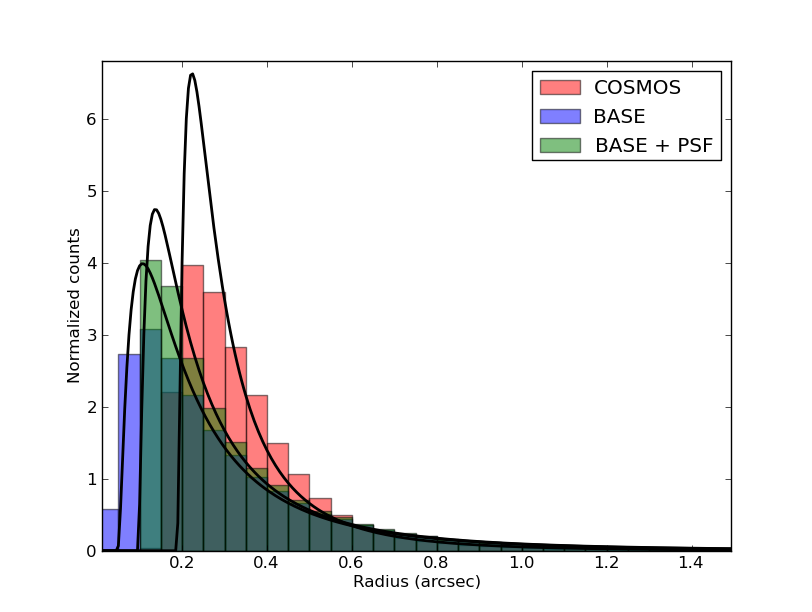
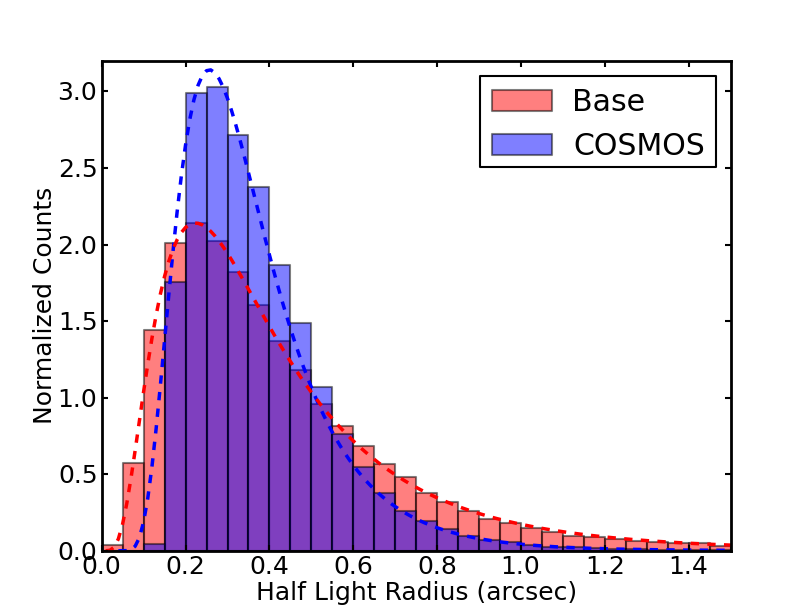
Addressing some of the outstanding questions in the text

diff --git a/validation.tex b/validation.tex
@@ -314,8 +314,6 @@ Stellar  populations included within the current implementation of the model are
 \item Cepheids
 \end{itemize}
 
-{\bf XXX OBA stars for future work}
-
 Approximately 10\% of the stellar sources are variable at a level
 detectable by LSST.  Variability is modeled for sources within the
 base catalogs by defining a light curve, its amplitude, a period, and
@@ -382,7 +380,7 @@ and software shall be accessible by the LSST project and science
 collaborations}\\
 
 CatSim is released as open source software using the GPLv3 license
-\citep{XXX}. The terms of this license are such that the software is
+\citep{gpl}. The terms of this license are such that the software is
 made available for copying, modification, and redistribution
 (including derivative works). Adopting GPLv3 ensures that works
 derived from the LSST software will also be released under the same
@@ -439,7 +437,7 @@ between CatSim and the photon simulator (PhoSim) are documented by the
 OpSim and PhoSim teams respectively.  These interfaces are described in:
 \begin{itemize}
 \item OpSim to CatSim -- ({\tt https://lsstcorp.org/sites/default/files/SSTARUserGuide.pdf}; accessed 07/29/2013)
-\item CatSim to PhoSim --{\bf XXX where is this}
+\item CatSim to PhoSim -- (\citet(phosim) and {\tt https://dev.lsstcorp.org/trac/wiki/IS\_instance\_catalog}; accessed 07/29/2013)
 \end{itemize}
 
 \subsection{Framework Requirement 4} 
@@ -469,10 +467,9 @@ astrophysical sources. Determinism for this process is ensured by
 defining the initial time, $T_o$, for the light curve model (i.e.\
 essentially specifying the phase of the light curve for a particular
 time). A value for $T_o$ is assigned to all variable sources within
-the catalog.  Stochastic variability, that uses a random number
-generator (e.g.\ the damped random walk of an AGN light curve), have a
-common seed for each source that is tied to its object id.
-{\bf XXX is this true}
+the catalog.  Any variability that uses a random number
+generator (e.g.\ the damped random walk of an AGN light curve) should have a
+seed for each source so that all observations of the lightcurve are self consistent.
 
 Special consideration must be paid to keeping ids in the output
 catalogs unique.  Since each object database is independent (i.e.\
@@ -836,10 +833,14 @@ $R=\frac{r_{gal}^2}{r_{PSF}^2}$ is the area of the galaxy relative to
 the point spread function.  We adopt values from \citet{chang} of
 (a,b,c) = (1.58,5.03,0.39), and assume a fiducial PSF size of 0.7
 arcsec. We use an estimate for the limiting magnitude of the co-added
-images of 26.7.  {\bf XXX why?} This takes into account the fact that
-the measurements are on extended sources as well as the fact that the
-SRD value of 27.5 in r is for dark sky observations at zenith.  The
-galaxy sample is the ``Gold Sample'' of galaxies with $i < 25.3$.  For
+images of 26.7.  This value is the best reproduces the values presented in
+\citet{chang}.  We expect the measured value of the limiting depth
+to be brighter than the SRD value of 27.5 in r because the SRD value
+is defined for dark sky at zenith and these observations have a 
+realistic distribution of airmass and sky brightness.  The fact
+that the measurements are on extended sources also contributes to 
+the best fit value being brighter than the nominal SRD value.
+The galaxy sample is the ``Gold Sample'' of galaxies with $i < 25.3$.  For
 each galaxy, $r_{gal}$ can be calculate from the flux ratio of the
 bulge and disk components as well as the effective half light radii of
 each component (see Appendix B in \citet{chang} for a derivation of
@@ -952,9 +953,7 @@ on the half-light and second moment radii by truncating the Sersic
 profiles at a specified radius (i.e.\ reproducing the effect of the
 light profile dropping below the noise in the image).  We truncate the
 profiles at multiples of the half light radius, $R_{hl}$: $1.33R_{hl},
-1.78R_{hl}, 3.16R_{hl}, 10R_{hl}, $and$100R_{hl}$. {\bf XXX what does
-  this correspond to in S/N?}
-
+1.78R_{hl}, 3.16R_{hl}, 10R_{hl}, $and$100R_{hl}$. 
 
 Figures \ref{fig:hl_hist} and \ref{fig:mom_hist} show the effect of
 progressively decreasing the signal-to-noise of a light profile.  As
@@ -1018,9 +1017,11 @@ location and distribution width.
 \begin{figure}[H]
 \centering
 \includegraphics[width=0.5\textwidth]{validation_figures/ln_fit.png}
-\caption{{\bf XXX This figure needs to be remade, it was done with
-    only objects 20 - 24.5.}\label{fig:ln_fit}, why doesnt the
-  lognormal fit why isnt there a discussion of base +psf}
+\caption{The half light radius distributions from the base catalog and 
+COSMOS catalog are well fit by a log-normal distribution.  The distributions
+are not identical.  Figure \ref{fig:size_sens} shows the impact on the  
+measured $n_{eff}$ that having different distributions makes.
+    \label{fig:ln_fit}}
 \end{figure}
 
 Figure \ref{fig:size_sens} shows the sensitivity of $n_{eff}$ to the
@@ -1097,11 +1098,11 @@ We use stars selected from the same fields as used in the number counts analysis
 In order to avoid complications associated with the difference between the LSST and SDSS photometric systems, we calculate the un-extincted 
 magnitudes in the SDSS bandpasses using the best fit spectrum for each star.  We then calculate
 the principal colors for each star using the relations in
-\citet{ivezic04}, but removing the r-band dependence in $P\prime_{2}$
-(the $P\prime_{2}$  correction
-in \citet{ivezic04} was used to correct for an empirical effect {\bf
-  XXX what effect} that is not present in photometry calculated on idealized spectra with idealized throughput
-curves). Figure
+\citet{ivezic04}.  \citet{ivezic04} noticed that when fitting for the coefficents of $P_{2}$ that a magnitude dependent offset remained.  They 
+attributed this to measurement systematics and applied an empirical correction to the fits in order to remove the $r-band$ dependence of the 
+principal colors.  Since we calculate the photometry with idealized spectra and throughput curves, we do not notice a trend with magnitude, and therefore 
+have not applied the empirical correction used in \citet{ivezic04}.
+Figure
 \ref{fig:principalcolorshist} shows that the principal colors as calculated from the base catalog are in good agreement with
 the location of the stellar locus in the SDSS (zero color).  The base catalog easily meets the requirement of $\pm0.02mag$ deviation
 from the stellar locus to single epoch depth in all 4 principal colors: ${\Delta}s=-0.003, {\Delta}w=0.001, {\Delta}x=-0.005, {\Delta}y=-0.013$.  
@@ -1117,7 +1118,6 @@ dependence which is consistent with SDSS observations.
   standard deviation for each
 histogram are given in the legend in the upper right.\label{fig:principalcolorshist}}
 \end{figure}
-{\bf XXX plot the requirements}
 
 \begin{figure} [ht]
 \centering
@@ -1178,8 +1178,8 @@ internally to the photon simulator).
 a redesign of the class-schema framework}\\
 
 The ability to create new catalogs is available within the framework
-through the use of user-designed subclasses and class mixins {\bf XXX
-  ref}. New types of catalog can be generated by creating a new class using
+through the use of user-designed subclasses and class mixins \citep{mixin}.
+New types of catalog can be generated by creating a new class using
 the InstanceCatalog base class. The columns required in this new catalog are defined
 as class attributes. The data for these columns is gathered from the
 database directly or using methods defined in the class for the
@@ -1261,7 +1261,7 @@ catalog.write_catalog("out.txt")
 We expect the requirements of the project to continue to evolve.  Informed by interations with the Systems Engineering team and the Data Management team we have 
 identified several areas in which future development will likely take place.  Below we itemize these likely areas of future work.
 \begin{itemize}
-\item Implement bright stars -- For guiding and wavefront sensing analysis
+\item Implement bright stars (OBA) -- For guiding and wavefront sensing analysis
 \item Implementation of extended and morphological images -- Multifit, supernova analysis, galaxy models
 \item Reduction of SED data size using PCA -- Parallelization of catalogs generation
 \item Add errors to catalogs -- Calibration simulations
